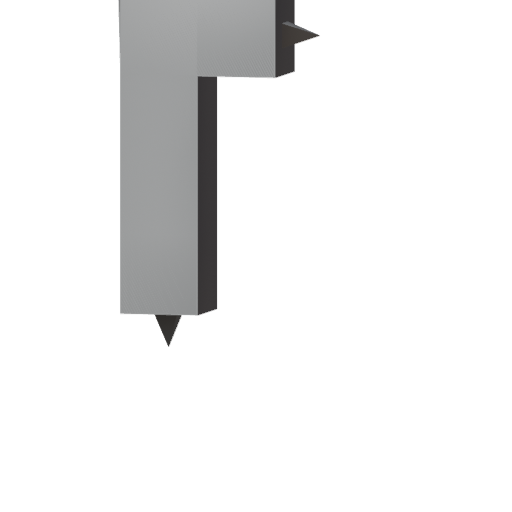
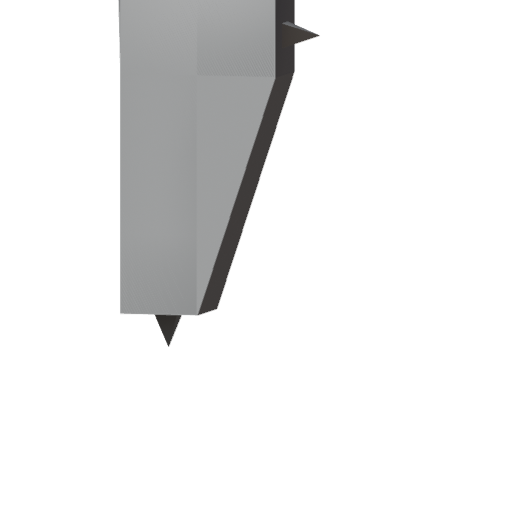
fix(aftertaste): N1 panel — a budget that IS the measurement cannot be failed
Standing N1 panel (Ox Alpha, GLM 5.3, HY3, Fable as builder-adversary): 4/4 REVISE. Every
seat named the manifest-over-bytes P0 already closed in e1a09ecbd. What sixteen pipe runs
had not found, the seats did:

GLM — BUDGETS WERE TAUTOLOGICAL. budget := measurement, so the gate could not fail a
  triangle count in principle, and the LOD ladder accepted the first rung that was merely
  LOWER (planar 40deg, 103 tris = 40% of LOD0) instead of the rung that met the art law.
  Now: registry.budgetPolicy.tierTable holds fractions INDEPENDENT of any measurement
  (lod1 <= 50%, lod2 <= 25%); the validator enforces measured tiers against them; the pipe
  ladder descends until the tier fraction is met. The very next run walked collapse 124 ->
  planar 103 -> un-beveled 52 (20%) and accepted 52, exactly as GLM predicted. The
  previously committed asset (lod2 = 103) now FAILS the gate honestly and is replaced.

Ox — THE COMMITTED COLLISION PROXY WAS NOT A CLOSED MANIFOLD. 15 of 49 edges had one face;
  physics would tunnel through it. Found the instant the manifold check Ox asked for was
  added and RUN. Collision is now the convex hull of the bare point cloud of the un-beveled
  form (16 tris; hulling a mesh that still carried its faces left 8 open edges — run 9).

GLM — bpy.ops returns {'CANCELLED'} without raising: a silent sibling channel to exceptions.
  Every export now asserts {'FINISHED'} AND that the artifact exists with bytes.
[…]

Changed region(s): [[0.375, 0.125, 0.5938, 0.5938]]

diff --git a/tools/blender/swan_pipe.py b/tools/blender/swan_pipe.py
@@ -48,19 +48,20 @@ it until a human fills in the provenance — a pipeline that emits pre-approved
 provenance is a laundering machine.
 """
 
-import argparse
+import math
 import os
+import shutil
 import sys
 
 sys.path.insert(0, os.path.dirname(os.path.abspath(__file__)))
-from swan_pipe_manifest import LOD_RATIOS, plan, out_dir_for, write_manifest_stub  # noqa: E402
+from swan_pipe_manifest import plan, out_dir_for, write_manifest_stub, executed_stage_ids, parse_args  # noqa: E402
 
 try:
     import bpy  # noqa: F401
     import bmesh
     IN_BLENDER = True
     # (script dir already on sys.path — see the top-level insert)
-    from swan_pipe_stages import smooth_by_angle, export_collision, render_still  # noqa: E402
+    from swan_pipe_stages import smooth_by_angle, export_collision, render_still, assert_artifact  # noqa: E402
 except ImportError:  # allows --dry-run linting outside Blender
     IN_BLENDER = False
 
@@ -68,25 +69,7 @@ except ImportError:  # allows --dry-run linting outside Blender
 SMOOTH_ANGLE = 0.6109  # ~35 degrees
 
 
-def parse_args(argv):
-    if "--" in argv:
-        argv = argv[argv.index("--") + 1:]
-    else:
-        argv = []
-    p = argparse.ArgumentParser(prog="swan_pipe")
-    p.add_argument("--in", dest="src", required=True, help="source .vox/.obj/.glb")
-    p.add_argument("--id", dest="asset_id", required=True, help="registry asset id, e.g. enemy.fryling")
-    p.add_argument("--out", dest="out_dir", default=None, help="output dir (default assets/runtime/<id>)")
-    p.add_argument("--skeleton", default=None, help="registry skeleton id; omit for a static prop")
-    p.add_argument("--bevel-width", type=float, default=0.012, help="the 'not plastic cubes' gene")
-    p.add_argument("--bake-size", type=int, default=1024)
-    p.add_argument("--dry-run", action="store_true", help="print the plan and exit (works without Blender)")
-    return p.parse_args(argv)
-
-
-# --------------------------------------------------------------- blender ops
-
-def run_in_blender(args, out_dir):
+def run_in_blender(args, out_dir, done):
     bpy.ops.wm.read_factory_settings(use_empty=True)
 
     ext = os.path.splitext(args.src)[1].lower()
@@ -145,6 +128,10 @@ def run_in_blender(args, out_dir):
     obj.data.update()
     base_tris = len(obj.data.loop_triangles)
     lod_counts = {"lod0": base_tris}
+    ratios = dict(zip(("lod0", "lod1", "lod2"), (float(x) for x in args.lod_ratios.split(","))))
+    tier_max = {k: float(v) for k, v in (kv.split(":") for kv in args.tier_table.split(","))}
+    print(f"[swan_pipe] stage tris: source-welded-beveled={base_tris}")
+    done.update(["import", "weld", "cleanup", "bevel", "shade", "uv"])
 
     def uv_project(o):
         bpy.ops.object.select_all(action="DESELECT")
@@ -155,7 +142,7 @@ def run_in_blender(args, out_dir):
         bpy.ops.uv.smart_project(island_margin=0.02)
         bpy.ops.object.mode_set(mode="OBJECT")
 
-    for name, ratio in LOD_RATIOS.items():
+    for name, ratio in ratios.items():
         target = obj.copy()
         target.data = obj.data.copy()
         target.name = f"{obj.name}_{name}"
@@ -174,24 +161,26 @@ def run_in_blender(args, out_dir):
             target.data.update()
             achieved = len(target.data.loop_triangles)
             prev = list(lod_counts.values())[-1]
-            if achieved >= prev:
-                # Collapse floored (first real run: 0.45 and 0.18 both stopped at 124 tris on a
-                # 260-tri beveled mesh). Planar dissolve removes the bevel bands themselves,
-                # which collapse cannot, so it reaches a genuinely lower tier.
+            ceiling = int(base_tris * tier_max.get(name, 1.0))
+            ok = lambda n: n < prev and n <= ceiling  # noqa: E731 — the tier must MEET its fraction, not just be lower
+            print(f"[swan_pipe] stage tris: {name} collapse@{ratio} -> {achieved} (ceiling {ceiling}, prev {prev})")
+            if not ok(achieved):
+                # Rung 2: planar dissolve removes the bevel bands themselves, which collapse cannot.
+                # PROBED on the real mesh (tools/blender/probe-decimate.py): 20deg = 242 (useless),
+                # 40deg = 84. Collapse floors at 124 for EVERY ratio <= 0.45 on beveled geometry.
                 pd = target.modifiers.new(f"planar_{name}", "DECIMATE")
                 pd.decimate_type = "DISSOLVE"
-                # PROBED, not guessed (2026-08-25, .n1/probe.py on the real asset): collapse floors at
-                # 124 tris for EVERY ratio <= 0.45 on this beveled mesh; planar at 20deg = 242 (useless),
-                # planar at 40deg = 84 (dissolves the bevel bands, keeps the silhouette). 40deg it is.
-                pd.angle_limit = 0.70  # ~40deg
+                pd.angle_limit = math.radians(args.planar_deg)
                 bpy.context.view_layer.update()
                 bpy.ops.object.modifier_apply(modifier=pd.name)
                 target.data.update()
                 achieved = len(target.data.loop_triangles)
-            if achieved >= prev:
-                # Last resort with a design rationale, not a hack: the UN-BEVELED macro form.
-                # At LOD2 distance the bevel gene is invisible anyway, and the welded blockout
-                # is guaranteed lower than any beveled tier.
+                print(f"[swan_pipe] stage tris: {name} +planar@{args.planar_deg}deg -> {achieved}")
+            if not ok(achieved):
+                # Rung 3: the UN-BEVELED macro form. At this distance the bevel gene is invisible;
+                # the welded blockout is guaranteed lower than any beveled tier. (GLM N1 blocker 2:
+                # with only a monotonicity guard the ladder stopped at 103 and never reached this
+                # rung; with the tier fraction it must.)
                 bpy.data.objects.remove(target, do_unlink=True)
                 target = pre_bevel.copy()
                 target.data = pre_bevel.data.copy()
@@ -199,24 +188,30 @@ def run_in_blender(args, out_dir):
                 bpy.context.collection.objects.link(target)
                 target.data.update()
                 achieved = len(target.data.loop_triangles)
-                print(f"[swan_pipe] {name}: collapse+planar floored at {prev}; using un-beveled macro form ({achieved} tris)")
-            if achieved >= prev:
+                print(f"[swan_pipe] stage tris: {name} un-beveled form -> {achieved}")
+            if not ok(achieved):
                 raise SystemExit(
-                    f"swan_pipe: {name} decimated to {achieved} tris, not lower than the previous LOD "
-                    f"({prev}) even after planar dissolve. Refusing to emit a fake tier.")
+                    f"swan_pipe: {name} reached {achieved} tris (ceiling {ceiling} = {tier_max.get(name)} of lod0 {base_tris}, "
+                    f"previous tier {prev}) after collapse {ratio}, planar {args.planar_deg}deg and the un-beveled form. "
+                    f"Refusing to emit a tier that misses its budget. DIAGNOSE: blender -b --python-exit-code 1 --python "
+                    f"tools/blender/probe-decimate.py -- {args.src}  then pass --lod-ratios / --planar-deg / --tier-table.")
             lod_counts[name] = achieved
+        done.add("lods")
         uv_project(target)
         bpy.ops.object.select_all(action="DESELECT")
         target.select_set(True)
         bpy.context.view_layer.objects.active = target
-        bpy.ops.export_scene.gltf(
+        res = bpy.ops.export_scene.gltf(
             filepath=os.path.join(out_dir, f"{name}.glb"),
             export_format="GLB", use_selection=True,
             export_apply=True, export_cameras=False, export_lights=False,
         )
+        assert_artifact(res, os.path.join(out_dir, f"{name}.glb"), f"export {name}")
 
-    export_collision(pre_bevel, out_dir, 0.45)  # PROBED: un-beveled collapse 0.45 -> 38 tris; the beveled mesh floors at 124
+    export_collision(pre_bevel, out_dir, args.collision_ratio)  # PROBED: un-beveled 0.45 -> 38 tris; beveled floors at 124
+    done.add("collision")
     render_still(obj, out_dir)
+    done.update(["still", "export"])
 
     print(f"[swan_pipe] base triangles: {base_tris}")
     return base_tris
@@ -237,8 +232,27 @@ def main():
         print(f"[swan_pipe]   node scripts/assets/validate-asset.mjs {path}")
         return
 
-    run_in_blender(args, out_dir)
-    path = write_manifest_stub(args, out_dir)
+    # ATOMIC OUTPUT (Ox Alpha, N1 blocker 3): six runs wrote into one persistent dir, so a run that died
+    # mid-way left the previous run's still.png beside new GLBs, ready to be hashed into a manifest that
+    # described different geometry. Build in a temp dir; swap in only on full success.
+    tmp_dir = out_dir.rstrip("/\\") + f".tmp-{os.getpid()}"
+    shutil.rmtree(tmp_dir, ignore_errors=True)
+    done = set()
+    try:
+        run_in_blender(args, tmp_dir, done)
+        done.add("manifest")
+        missing = [st for st in executed_stage_ids(plan(args)) if st not in done]
+        if missing:  # plan/code drift is a FAILURE, not a note — run 1 hid collision + still this way
+            raise SystemExit(f"swan_pipe: plan() lists stages this run did not execute: {missing}")
+        path = write_manifest_stub(args, tmp_dir)
+        with open(os.path.join(tmp_dir, ".swan-pipe.ok"), "w", encoding="utf-8") as fh:
+            fh.write("ok\n")  # success sentinel: a caller that cannot trust exit codes checks this file
+    except BaseException:
+        shutil.rmtree(tmp_dir, ignore_errors=True)  # never leave a half-run where --all could find it
+        raise
+    shutil.rmtree(out_dir, ignore_errors=True)
+    os.replace(tmp_dir, out_dir)
+    path = os.path.join(out_dir, os.path.basename(path))
     print(f"[swan_pipe] manifest stub -> {path}")
     print("[swan_pipe] NOW: fill provenance by hand, hash the GLBs, then validate.")
 

diff --git a/tools/blender/swan_pipe_manifest.py b/tools/blender/swan_pipe_manifest.py
@@ -5,6 +5,7 @@ output-dir convention, and the deliberately-INVALID manifest stub.
 Split out 2026-08-25 to keep swan_pipe.py under the repo's 300-line cap. Importable without
 Blender, which is what lets `--dry-run` work anywhere.
 """
+import argparse
 import json
 import os
 
@@ -20,10 +21,12 @@ def plan(args):
         ("bevel", f"width={args.bevel_width}, segments=2, clamp — THE inherited art gene"),
         ("shade", "bmesh sharp-edge marking at ~35deg then shade smooth — asset-free, headless-safe"),
         ("uv", "smart_uv_project, island_margin 0.02"),
-        ("bake", f"normal + AO + roughness @ {args.bake_size} — micro-detail becomes texture, not geometry"),
+        # ("bake", ...) REMOVED from the plan 2026-08-26 until it exists in the code. A plan that lists a
+        # stage the code does not run is the plan/code drift that hid missing collision+still on run 1
+        # (Ox Alpha, N1 blocker 2). It returns to this list the day swan_pipe_stages.py bakes.
         ("lods", f"decimate to {LOD_RATIOS}"),
         ("collision", "un-beveled macro form, collapse 0.45 — never the render mesh"),
-        ("still", "one orthographic poster for the still tier"),
+        ("still", "one orthographic Workbench poster for the still tier"),
         ("export", "GLB per LOD (+Y up, no cameras/lights, apply modifiers)"),
         ("manifest", "emit INVALID stub — provenance is a human act"),
     ]
@@ -65,3 +68,35 @@ def write_manifest_stub(args, out_dir):
     with open(path, "w", encoding="utf-8") as fh:
         json.dump(stub, fh, indent=2)
     return path
+
+
+def executed_stage_ids(plan_items):
+    """Stage ids run_in_blender() must record as executed — derived FROM plan() so the two cannot drift."""
+    return [stage for stage, _ in plan_items]
+
+
+def parse_args(argv):
+    if "--" in argv:
+        argv = argv[argv.index("--") + 1:]
+    else:
+        argv = []
+    p = argparse.ArgumentParser(prog="swan_pipe")
+    p.add_argument("--in", dest="src", required=True, help="source .vox/.obj/.glb")
+    p.add_argument("--id", dest="asset_id", required=True, help="registry asset id, e.g. enemy.fryling")
+    p.add_argument("--out", dest="out_dir", default=None, help="output dir (default assets/runtime/<id>)")
+    p.add_argument("--skeleton", default=None, help="registry skeleton id; omit for a static prop")
+    p.add_argument("--bevel-width", type=float, default=0.012, help="the 'not plastic cubes' gene")
+    p.add_argument("--bake-size", type=int, default=1024)
+    p.add_argument("--lod-ratios", default="1.0,0.45,0.18",
+                   help="collapse ratios for lod0,lod1,lod2. DEFAULTS WERE PROBED ON ONE 5-cube mesh (2026-08-25); "
+                        "run tools/blender/probe-decimate.py on a new asset class before trusting them")
+    p.add_argument("--planar-deg", type=float, default=40.0, help="planar-dissolve fallback when collapse floors (probed: 20deg useless, 40deg works)")
+    p.add_argument("--collision-ratio", type=float, default=0.45, help="collapse ratio on the UN-beveled macro form")
+    p.add_argument("--tier-table", default="lod1:0.5,lod2:0.25",
+                   help="max triangle FRACTION of lod0 per tier. A rung is accepted only if it meets this — "
+                        "\"lower than the previous tier\" alone let a 40%% LOD2 through (GLM 5.3, N1)")
+    p.add_argument("--dry-run", action="store_true", help="print the plan and exit (works without Blender)")
+    return p.parse_args(argv)
+
+
+# --------------------------------------------------------------- blender ops

diff --git a/tools/blender/swan_pipe_stages.py b/tools/blender/swan_pipe_stages.py
@@ -11,6 +11,15 @@ import bmesh
 import mathutils
 
 
+def assert_artifact(op_result, path, what):
+    """bpy.ops return {'CANCELLED'} WITHOUT raising — a silent sibling channel to exceptions
+    (GLM 5.3, N1 blocker 3). Check the operator result AND that the file exists with bytes."""
+    if op_result != {"FINISHED"}:
+        raise SystemExit(f"swan_pipe: {what} returned {op_result}, not FINISHED")
+    if not os.path.exists(path) or os.path.getsize(path) == 0:
+        raise SystemExit(f"swan_pipe: {what} reported FINISHED but wrote no bytes at {path}")
+
+
 def smooth_by_angle(obj, angle):
     """Mark edges sharp above `angle`, then shade smooth. Asset-free and headless-safe.
 
@@ -45,21 +54,43 @@ def smooth_by_angle(obj, angle):
 
 
 def export_collision(obj, out_dir, ratio):
-    """Heavily decimated collision proxy — never the render mesh.
+    """Collision proxy = CONVEX HULL of the un-beveled macro form. Closed manifold by construction.
 
-    Found MISSING on the first real run (2026-08-25): plan() listed "collision" and "still",
-    run_in_blender() produced neither, and the stub declared both. Running it found it;
-    three panels reading it did not.
+    Run 7 (2026-08-26): the previous approach — collapse-decimate the macro form to ~38 tris — was
+    committed as the asset's collision.glb and turned out to be NOT a closed manifold: 15 of 49
+    edges had one face. Physics would tunnel through it. Found only when the manifold check Ox
+    Alpha asked for was added and RUN. A hull is what a broadphase wants anyway; the L-shape's
+    concavity is irrelevant at this scale. `ratio` is kept for the call signature and ignored.
     """
     coll = obj.copy()
     coll.data = obj.data.copy()
+    coll.name = f"{obj.name}_collision"
     bpy.context.collection.objects.link(coll)
-    dec = coll.modifiers.new("dec_collision", "DECIMATE")
-    dec.ratio = ratio  # passed in; the module constant did not survive the split (found on run 4)
-    dec.use_collapse_triangulate = True
-    bpy.context.view_layer.objects.active = coll
-    bpy.context.view_layer.update()
-    bpy.ops.object.modifier_apply(modifier=dec.name)
+    # Runs 9/10: hulling a bmesh that still carried the SOURCE faces left those faces overlapping
+    # the hull surface -> 8 of 24 edges with the wrong face count. Hull the bare POINT CLOUD.
+    bm = bmesh.new()
+    for v in coll.data.vertices:
+        bm.verts.new(v.co)
+    bm.verts.ensure_lookup_table()
+    hull = bmesh.ops.convex_hull(bm, input=bm.verts[:])
+    # geom_interior and geom_unused can overlap; bmesh.ops.delete refuses duplicates (run 11).
+    hull_verts = {g for g in hull["geom"] if isinstance(g, bmesh.types.BMVert)}
+    drop = [v for v in bm.verts if v not in hull_verts]
+    if drop:
+        bmesh.ops.delete(bm, geom=drop, context="VERTS")
+    bm.to_mesh(coll.data)
+    bm.free()
+    coll.data.update()
+
+    # A collision proxy that is not a closed manifold lets physics tunnel through it (Ox Alpha, N1
+    # blocker 5). Check the topology, not the triangle count: every edge has exactly two faces.
+    bm = bmesh.new()
+    bm.from_mesh(coll.data)
+    bad = [e for e in bm.edges if len(e.link_faces) != 2]
+    n_edges = len(bm.edges)
+    bm.free()
+    if bad:
+        raise SystemExit(f"swan_pipe: collision proxy is not a closed manifold — {len(bad)} of {n_edges} edges lack exactly 2 faces")
     bpy.ops.object.select_all(action="DESELECT")
     coll.select_set(True)
     bpy.context.view_layer.objects.active = coll
